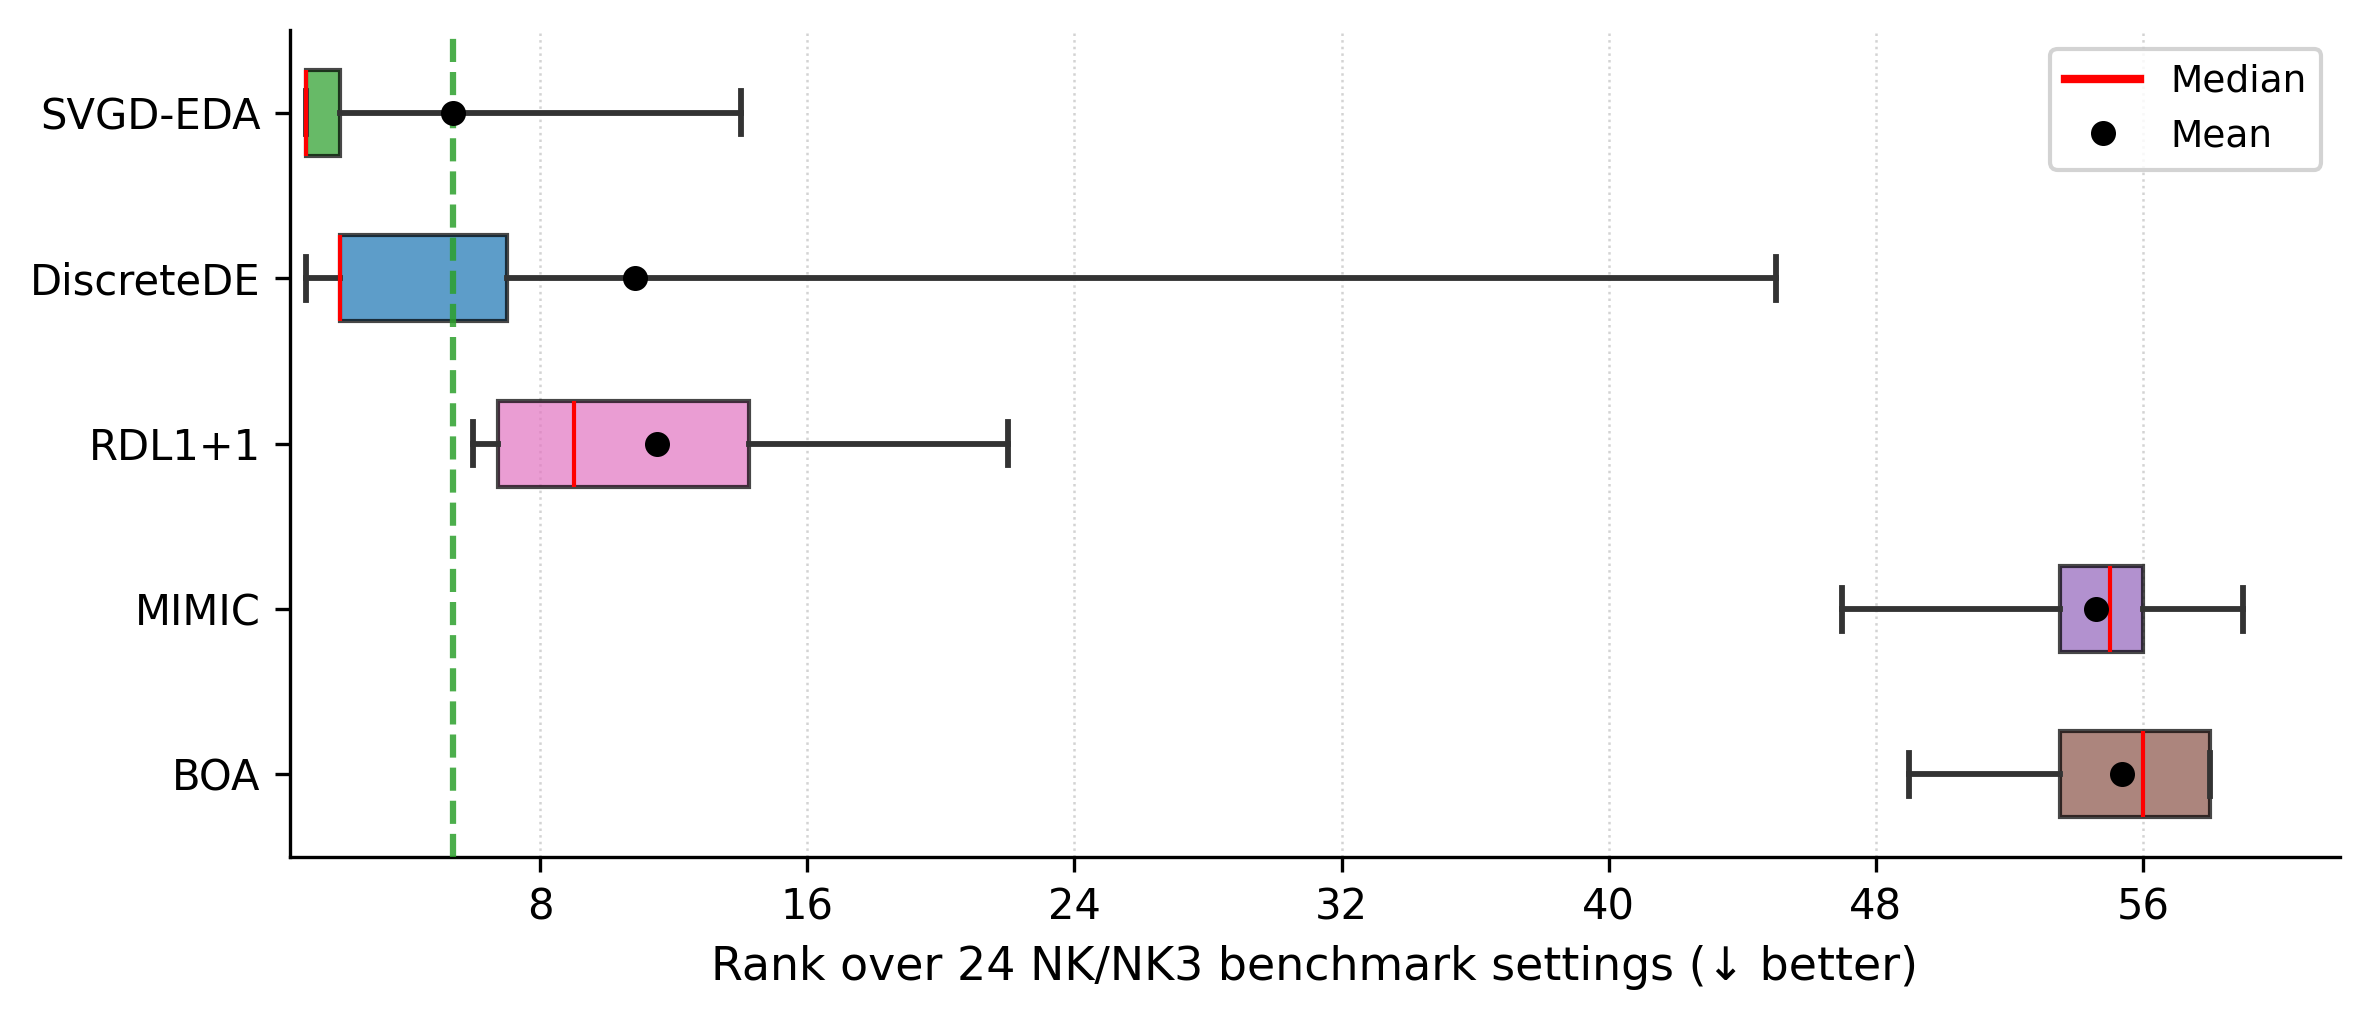
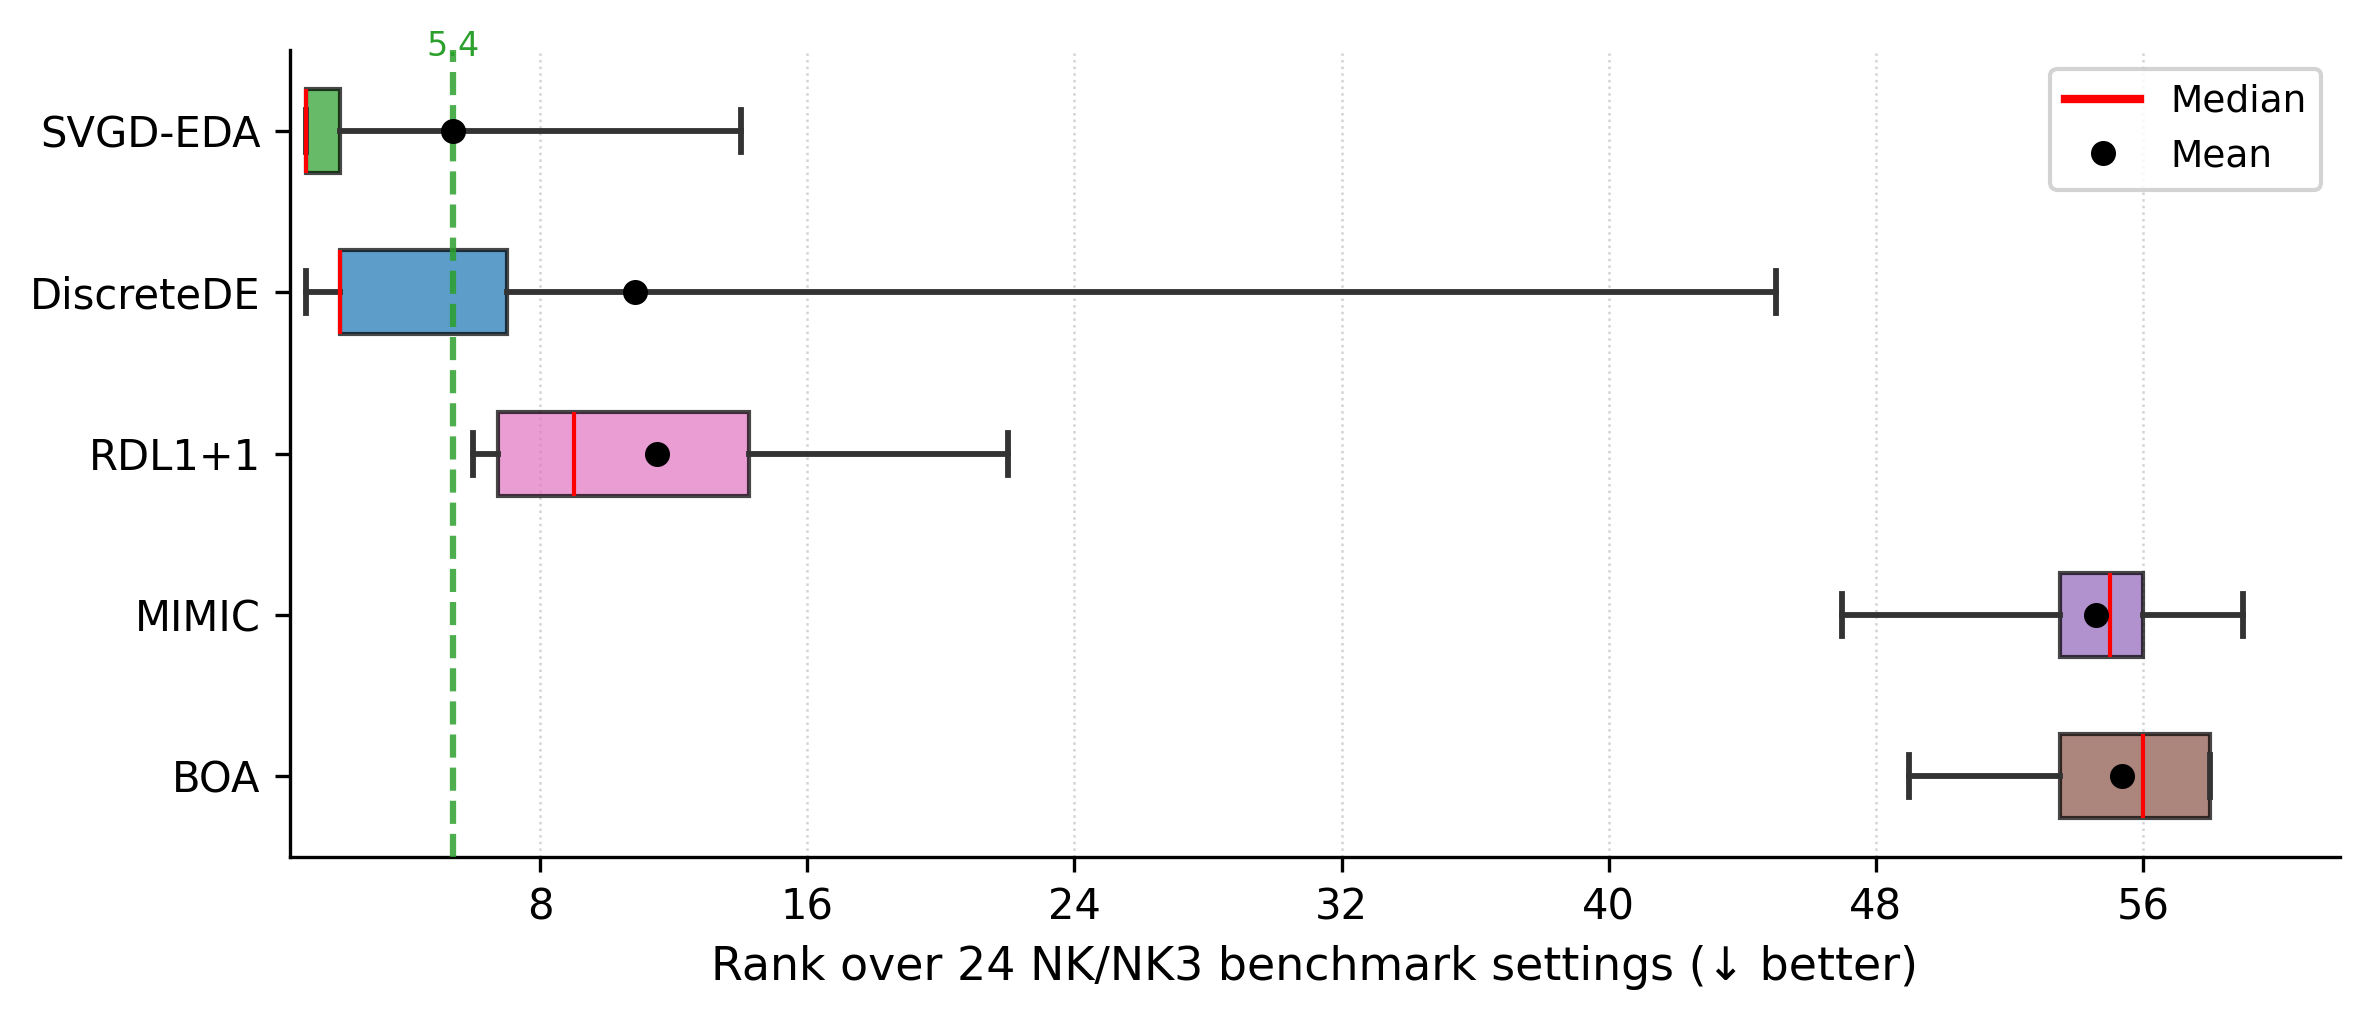
improve bloxpot rank

diff --git a/curves/ranking_boxplot_nk.py b/curves/ranking_boxplot_nk.py
@@ -1,4 +1,4 @@
-"""Horizontal boxplot of rank distributions across 24 NK / NK3 configurations."""
+"""Horizontal boxplot of rank distributions across NK / NK3 configurations."""
 
 from __future__ import annotations
 
@@ -8,22 +8,16 @@ from pathlib import Path
 
 import matplotlib.pyplot as plt
 import matplotlib.ticker as mticker
+from matplotlib.lines import Line2D
 
 ROOT = Path(__file__).resolve().parent.parent
 RANKING_DIR = ROOT / "additional_results" / "global_ranking"
-CONFIG_DIR = (
-    ROOT
-    / "results"
-    / "config"
-    / "krbf__advglobalrankweighted__M7__L13__eps0p08__g0p015__ds0p03__dm0p01"
-)
 
 SKIP = {"PPO-EDA", "Tabu", "TABU", "tabu"}
 
 MY_KEY = "SVGD"
 MY_LABEL = "SVGD-EDA"
 
-# Competitors present in all 24 NK/NK3 configs, ordered by interest
 COMPETITORS = ["DiscreteDE", "RecombiningDiscreteLenglerOnePlusOne", "MIMIC", "BOA"]
 
 DISPLAY_NAMES = {
@@ -31,11 +25,11 @@ DISPLAY_NAMES = {
 }
 
 PALETTE = {
-    MY_LABEL:    "#2ca02c",   # green
-    "DiscreteDE": "#1f77b4",  # blue
-    "RDL1+1":     "#e377c2",  # pink
-    "MIMIC":      "#9467bd",  # purple
-    "BOA":        "#8c564b",  # brown
+    MY_LABEL:    "#2ca02c",
+    "DiscreteDE": "#1f77b4",
+    "RDL1+1":     "#e377c2",
+    "MIMIC":      "#9467bd",
+    "BOA":        "#8c564b",
 }
 
 
@@ -88,7 +82,7 @@ def _load_ranking(path: Path) -> list[tuple[str, float]]:
     return rows
 
 
-def collect_ranks() -> dict[str, list[int]]:
+def collect_ranks(config_dir: Path) -> dict[str, list[int]]:
     nk_files: list[tuple[str, int, int, Path]] = []
     for f in sorted(RANKING_DIR.glob("NK_N_*_K_*_ranks.csv")):
         m = re.match(r"NK_N_(\d+)_K_(\d+)_ranks\.csv", f.name)
@@ -104,7 +98,7 @@ def collect_ranks() -> dict[str, list[int]]:
     for problem, dim, t, rank_path in nk_files:
         ranking = _load_ranking(rank_path)
 
-        svgd_score = _last_score(CONFIG_DIR / f"{problem}_dim{dim}_t{t}" / "best_metrics.csv")
+        svgd_score = _last_score(config_dir / f"{problem}_dim{dim}_t{t}" / "best_metrics.csv")
         combined = list(ranking)
         if svgd_score is not None:
             combined.append((MY_KEY, svgd_score))
@@ -125,7 +119,6 @@ def collect_ranks() -> dict[str, list[int]]:
 # ---------------------------------------------------------------------------
 
 def plot(ranks: dict[str, list[int]], output_path: Path) -> None:
-    # Sort competitors by median rank (ascending = better), SVGD always first
     comps_sorted = sorted(
         [c for c in COMPETITORS if ranks.get(c)],
         key=lambda c: sorted(ranks[c])[len(ranks[c]) // 2],
@@ -147,7 +140,7 @@ def plot(ranks: dict[str, list[int]], output_path: Path) -> None:
         patch_artist=True,
         positions=list(range(n)),
         widths=0.52,
-        whis=(5, 95),           # 5th–95th percentile whiskers
+        whis=(5, 95),
         medianprops=dict(color="red", linewidth=1.0),
         whiskerprops=dict(linewidth=1.4, color="#333333"),
         capprops=dict(linewidth=1.4, color="#333333"),
@@ -159,21 +152,22 @@ def plot(ranks: dict[str, list[int]], output_path: Path) -> None:
         patch.set_facecolor(color)
         patch.set_alpha(0.72)
 
-    # Mean markers
     for i, d in enumerate(data):
-        mean_val = sum(d) / len(d)
-        ax.plot(mean_val, i, "ko", markersize=5, zorder=5, clip_on=False)
+        ax.plot(sum(d) / len(d), i, "ko", markersize=5, zorder=5, clip_on=False)
 
-    # SVGD mean reference line
     svgd_mean = sum(ranks[MY_LABEL]) / len(ranks[MY_LABEL])
-    svgd_wins = sum(1 for r in ranks[MY_LABEL] if r == 1)
-    n_configs = len(ranks[MY_LABEL])
     ax.axvline(svgd_mean, color=PALETTE[MY_LABEL], linestyle="--", linewidth=1.5, alpha=0.85, zorder=3)
+    ax.text(
+        svgd_mean, 0 - 0.42,
+        f"{svgd_mean:.1f}",
+        ha="center", va="bottom",
+        fontsize=8, color=PALETTE[MY_LABEL],
+        clip_on=False,
+    )
 
-    # Y-axis labels
     ax.set_yticks(list(range(n)))
     ax.set_yticklabels([display(a) for a in algo_order], fontsize=10)
-    ax.invert_yaxis()   # best algorithm (SVGD) at the top
+    ax.invert_yaxis()
 
     ax.set_xlabel("Rank over 24 NK/NK3 benchmark settings (↓ better)", fontsize=11)
     ax.xaxis.set_major_locator(mticker.MaxNLocator(integer=True, nbins=8))
@@ -182,14 +176,11 @@ def plot(ranks: dict[str, list[int]], output_path: Path) -> None:
     ax.spines["top"].set_visible(False)
     ax.spines["right"].set_visible(False)
 
-    # Legend explaining median (red) and mean (black dot)
-    from matplotlib.lines import Line2D
-    legend_handles = [
-        Line2D([0], [0], color="red", linewidth=2, label="Median"),
-        Line2D([0], [0], marker="o", color="black", linestyle="None", markersize=5, label="Mean"),
-    ]
     ax.legend(
-        handles=legend_handles,
+        handles=[
+            Line2D([0], [0], color="red", linewidth=2, label="Median"),
+            Line2D([0], [0], marker="o", color="black", linestyle="None", markersize=5, label="Mean"),
+        ],
         loc="upper right",
         fontsize=9,
         frameon=True,
@@ -204,28 +195,42 @@ def plot(ranks: dict[str, list[int]], output_path: Path) -> None:
 
 
 # ---------------------------------------------------------------------------
-# Main
+# Public entry point (called from main_curves_overall.py)
+# ---------------------------------------------------------------------------
+
+def generate(config_dir: Path) -> None:
+    ranks = collect_ranks(config_dir)
+    output_path = config_dir / "ranking_boxplot_nk_nk3.png"
+    plot(ranks, output_path)
+
+
+# ---------------------------------------------------------------------------
+# Standalone
 # ---------------------------------------------------------------------------
 
 def main() -> None:
-    ranks = collect_ranks()
+    DEFAULT = (
+        ROOT / "results" / "config"
+        / "krbf__advglobalrankweighted__M7__L13__eps0p08__g0p015__ds0p03__dm0p01"
+    )
+    config_dir = DEFAULT
+    ranks = collect_ranks(config_dir)
 
-    print(f"\n{'Algorithm':<30} {'n':>3}  {'min':>4}  {'Q1':>5}  {'med':>5}  {'Q3':>5}  {'max':>4}  {'wins':>5}")
-    print("-" * 72)
+    print(f"\n{'Algorithm':<40} {'n':>3}  {'min':>4}  {'Q1':>5}  {'med':>5}  {'Q3':>5}  {'max':>4}  {'wins':>5}")
+    print("-" * 80)
     for algo in [MY_LABEL] + COMPETITORS:
         r = sorted(ranks.get(algo, []))
         if not r:
-            print(f"{algo:<30}  no data")
+            print(f"{algo:<40}  no data")
             continue
         n = len(r)
         q1 = r[int(0.25 * (n - 1))]
         med = r[int(0.50 * (n - 1))]
         q3 = r[int(0.75 * (n - 1))]
         w = sum(1 for x in r if x == 1)
-        print(f"{algo:<30} {n:>3}  {r[0]:>4}  {q1:>5}  {med:>5}  {q3:>5}  {r[-1]:>4}  {w:>5}")
+        print(f"{algo:<40} {n:>3}  {r[0]:>4}  {q1:>5}  {med:>5}  {q3:>5}  {r[-1]:>4}  {w:>5}")
 
-    output_path = CONFIG_DIR / "ranking_boxplot_nk_nk3.png"
-    plot(ranks, output_path)
+    plot(ranks, config_dir / "ranking_boxplot_nk_nk3.png")
 
 
 if __name__ == "__main__":

diff --git a/curves/main_curves_overall.py b/curves/main_curves_overall.py
@@ -12,6 +12,7 @@ from pathlib import Path
 
 import matplotlib.pyplot as plt
 
+from ranking_boxplot_nk import generate as generate_ranking_boxplot
 from main_plot import (
     _normalize_score_sign,
     clip_series_to_budget,
@@ -765,6 +766,13 @@ def main():
                 print(f"[WARN] normal/no_repulsion failed for {inst_dir.name}: {exc}")
         else:
             print(f"[WARN] Missing {no_repulsion_metrics}. Skipping normal/no_repulsion plots.")
+
+
+    # Global ranking boxplot across all NK/NK3 instances
+    try:
+        generate_ranking_boxplot(config_dir)
+    except Exception as exc:
+        print(f"[WARN] ranking boxplot failed: {exc}")
 
 
 if __name__ == "__main__":
